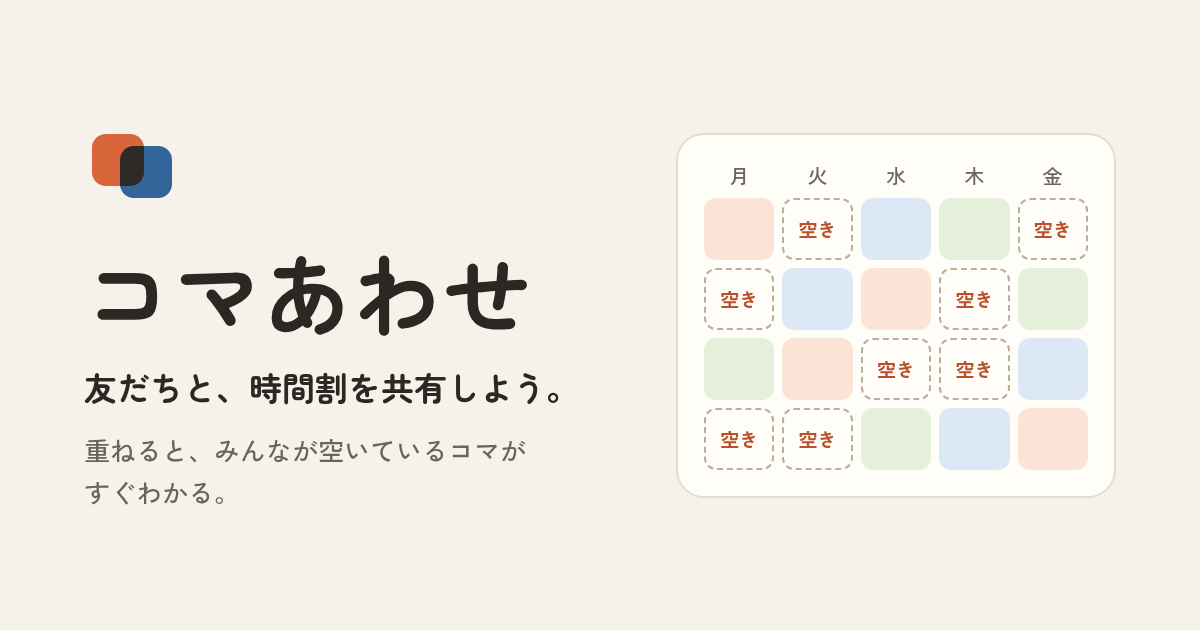
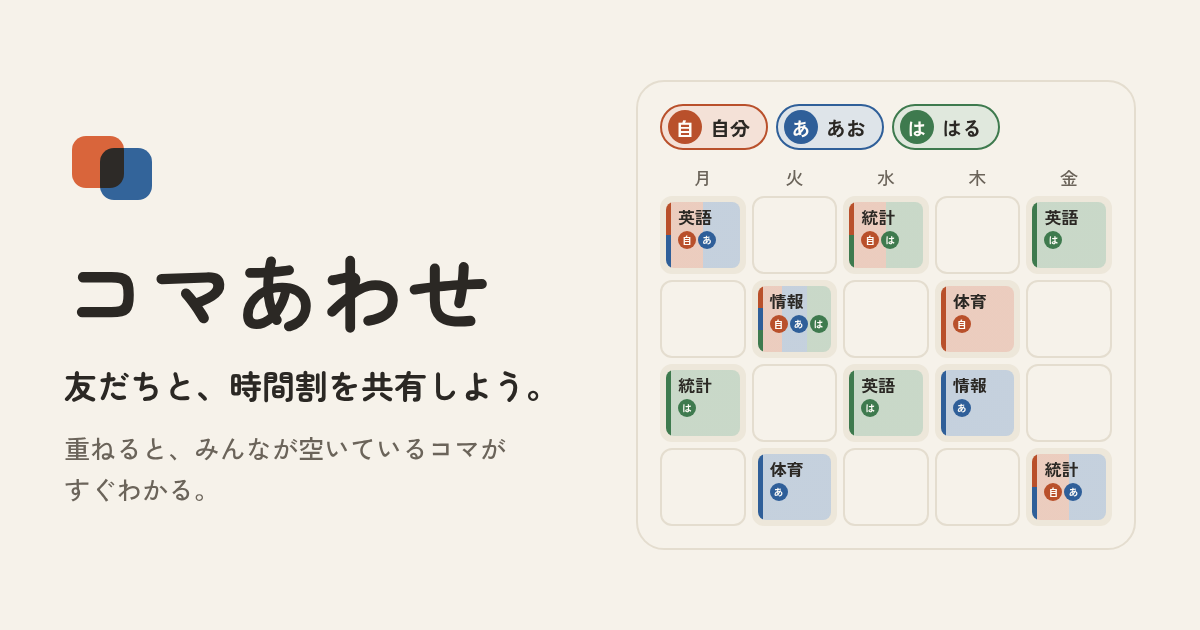
Draw the overlap picture like the real コマを重ねる screen
Claude-Session: https://claude.ai/code/session_012mbMFkv2C8vWmJ54DyEvYR

diff --git a/src/lib/components/OverlayDemo.svelte b/src/lib/components/OverlayDemo.svelte
@@ -1,0 +1,207 @@
+<script lang="ts">
+	import UserIcon from '$lib/components/UserIcon.svelte';
+	import { DAY_NAMES } from '$lib/courses';
+	import { iconOf } from '$lib/icons';
+	import { classFill } from '$lib/overlay';
+
+	// A picture of the コマを重ねる screen with made-up people and classes (nothing is read from
+	// anywhere). It uses the same icon, color and class look as the screen (src/routes/overlay).
+	const me = { id: 'demo-me', nickname: '自分', icon: { color: 'shu', text: '自' } };
+	const ao = { id: 'demo-ao', nickname: 'あお', icon: { color: 'ai', text: 'あ' } };
+	const haru = { id: 'demo-haru', nickname: 'はる', icon: { color: 'midori', text: 'は' } };
+	const friends = [ao, haru];
+	const colorOf = (u: typeof me) => iconOf(u).hex;
+
+	const days = [1, 2, 3, 4, 5];
+	const periods = [1, 2, 3, 4];
+	// weekday-period: title and who has it
+	const classes: Record<string, { title: string; who: (typeof me)[] }> = {
+		'1-1': { title: '英語', who: [me, ao] },
+		'1-3': { title: '統計', who: [haru] },
+		'2-2': { title: '情報', who: [me, ao, haru] },
+		'2-4': { title: '体育', who: [ao] },
+		'3-1': { title: '統計', who: [me, haru] },
+		'3-3': { title: '英語', who: [haru] },
+		'4-2': { title: '体育', who: [me] },
+		'4-3': { title: '情報', who: [ao] },
+		'5-1': { title: '英語', who: [haru] },
+		'5-4': { title: '統計', who: [me, ao] }
+	};
+	const free = days.flatMap((d) => {
+		const ps = periods.filter((p) => !classes[`${d}-${p}`]);
+		return ps.length ? [[d, ps] as const] : [];
+	});
+</script>
+
+<div class="demo" aria-hidden="true">
+	<div class="chips">
+		<span class="chip on" style:--p={colorOf(me)}><UserIcon user={me} size={24} short />自分</span>
+		{#each friends as f (f.id)}
+			<span class="chip on" style:--p={colorOf(f)}><UserIcon user={f} size={24} short />{f.nickname}</span>
+		{/each}
+	</div>
+
+	<div class="grid">
+		{#each days as d, i (d)}<span class="day" style:grid-column={i + 2}>{DAY_NAMES[d]}</span>{/each}
+		{#each periods as p, r (p)}
+			<span class="period" style:grid-row={r + 2}>{p}</span>
+			{#each days as d, c (d)}
+				{@const cls = classes[`${d}-${p}`]}
+				<span class="cell" class:free={!cls} style:grid-row={r + 2} style:grid-column={c + 2}>
+					{#if cls}
+						<span class="course" style:background={classFill(cls.who.map(colorOf))}>
+							<span class="title">{cls.title}</span>
+							<span class="people">{#each cls.who as x (x.id)}<UserIcon user={x} size={16} short />{/each}</span>
+						</span>
+					{/if}
+				</span>
+			{/each}
+		{/each}
+	</div>
+
+	<div class="free-card">
+		<h4>みんな空いてるコマ</h4>
+		{#each free as [d, ps] (d)}
+			<div class="free-day">
+				<span class="free-label">{DAY_NAMES[d]}</span>
+				<span class="free-list">{#each ps as p (p)}<span class="free-chip">{p}限</span>{/each}</span>
+			</div>
+		{/each}
+	</div>
+</div>
+
+<style>
+	.demo {
+		padding: 12px 0 14px;
+		border: 1px solid var(--line);
+		border-radius: 14px;
+		background: var(--bg);
+	}
+
+	.chips {
+		display: flex;
+		flex-wrap: wrap;
+		gap: 6px;
+		padding: 0 10px 10px;
+	}
+
+	.chip {
+		height: 36px;
+		box-sizing: border-box;
+		display: inline-flex;
+		align-items: center;
+		gap: 6px;
+		padding: 0 12px 0 6px;
+		border: 1px solid var(--p);
+		border-radius: 18px;
+		background: color-mix(in srgb, var(--p) 16%, var(--surface));
+		color: var(--ink);
+		font-size: 13px;
+		font-weight: 700;
+	}
+
+	.grid {
+		display: grid;
+		grid-template-columns: 24px repeat(5, minmax(0, 1fr));
+		grid-template-rows: 20px repeat(4, 62px);
+		gap: 3px;
+		padding: 0 8px;
+	}
+
+	.day {
+		grid-row: 1;
+		text-align: center;
+		font-size: 12px;
+		color: var(--ink-sub);
+	}
+
+	.period {
+		grid-column: 1;
+		padding-top: 5px;
+		text-align: center;
+		font-family: var(--font-display);
+		font-weight: 700;
+		font-size: 13px;
+	}
+
+	.cell {
+		min-width: 0;
+		box-sizing: border-box;
+		display: flex;
+		flex-direction: column;
+		padding: 3px;
+		overflow: hidden;
+		border: 1px solid var(--slot);
+		border-radius: 8px;
+		background: var(--slot);
+	}
+
+	.cell.free {
+		border-color: var(--line);
+		background: transparent;
+	}
+
+	.course {
+		display: flex;
+		flex-direction: column;
+		gap: 2px;
+		padding: 3px 3px 3px 8px;
+		border-radius: 5px;
+		background: var(--raised);
+	}
+
+	.title {
+		font-size: 10px;
+		font-weight: 700;
+		line-height: 1.3;
+	}
+
+	.people {
+		display: flex;
+		flex-wrap: wrap;
+		gap: 2px;
+	}
+
+	.free-card {
+		display: flex;
+		flex-direction: column;
+		gap: 6px;
+		margin: 12px 10px 0;
+		padding: 12px 14px;
+		border: 1px solid var(--line);
+		border-radius: 14px;
+		background: var(--surface);
+	}
+
+	.free-card h4 {
+		margin: 0 0 2px;
+		font-size: 13px;
+		font-weight: 700;
+	}
+
+	.free-day {
+		display: flex;
+		align-items: flex-start;
+		gap: 10px;
+	}
+
+	.free-label {
+		width: 18px;
+		padding-top: 3px;
+		font-size: 13px;
+		font-weight: 700;
+	}
+
+	.free-list {
+		display: flex;
+		flex-wrap: wrap;
+		gap: 6px;
+	}
+
+	.free-chip {
+		padding: 2px 9px;
+		border: 1px solid var(--line-strong);
+		border-radius: 7px;
+		font-size: 12px;
+	}
+</style>

diff --git a/src/routes/intro/+page.svelte b/src/routes/intro/+page.svelte
@@ -1,22 +1,13 @@
 <script lang="ts">
 	import { page } from '$app/state';
 	import Icon from '$lib/components/Icon.svelte';
+	import OverlayDemo from '$lib/components/OverlayDemo.svelte';
 	import PageHeader from '$lib/components/PageHeader.svelte';
 	import logo from '$lib/assets/favicon.svg';
 
 	// Readable signed in or not: shared as a link, and reachable from the login page.
 	const signedIn = $derived(page.data.signedIn);
 
-	// The picture of 重ねる: 5 days × 4 periods, who has a class (0 = nobody, 1 = 自分,
-	// 2 = 友だちA, 3 = 友だちB) and the cells all three have free.
-	const GRID = [
-		[1, 0, 2, 3, 0],
-		[0, 2, 1, 0, 3],
-		[3, 1, 0, 0, 2],
-		[0, 0, 3, 2, 1]
-	];
-	const DAYS = ['月', '火', '水', '木', '金'];
-	
 	const features = [
 		{
 			icon: 'edit',
@@ -72,20 +63,8 @@
 	</section>
 
 	<section class="demo" aria-label="時間割を重ねたイメージ">
-		<div class="grid" aria-hidden="true">
-			{#each DAYS as d (d)}<span class="day">{d}</span>{/each}
-			{#each GRID as row, r (r)}
-				{#each row as who, c (c)}
-					<span class="cell who{who}" class:free={who === 0}>{who === 0 ? '空き' : ''}</span>
-				{/each}
-			{/each}
-		</div>
-		<ul class="legend" aria-hidden="true">
-			<li><i class="who1"></i>自分</li>
-			<li><i class="who2"></i>友だちA</li>
-			<li><i class="who3"></i>友だちB</li>
-		</ul>
-		<p class="caption">3人の時間割を重ねたところ。だれも授業のないコマが「空き」になります。</p>
+		<OverlayDemo />
+		<p class="caption">3人の時間割を重ねたところ。だれも授業のないコマが、「みんな空いてるコマ」に出ます。</p>
 	</section>
 
 	<section class="block">
@@ -175,74 +154,6 @@
 
 	.demo {
 		margin: 20px 20px 4px;
-		padding: 14px;
-		border: 1px solid var(--line);
-		border-radius: 14px;
-		background: var(--surface);
-	}
-
-	.grid {
-		display: grid;
-		grid-template-columns: repeat(5, 1fr);
-		gap: 4px;
-	}
-
-	.day {
-		text-align: center;
-		font-size: 11px;
-		color: var(--ink-sub);
-	}
-
-	.cell {
-		height: 34px;
-		display: flex;
-		align-items: center;
-		justify-content: center;
-		border-radius: 7px;
-		background: var(--slot);
-		font-size: 11px;
-		font-weight: 700;
-	}
-
-	.who1 {
-		background: var(--course-orange);
-	}
-
-	.who2 {
-		background: var(--course-blue);
-	}
-
-	.who3 {
-		background: var(--course-green);
-	}
-
-	.cell.free {
-		background: transparent;
-		border: 1px dashed var(--line-bold);
-		color: var(--accent-text);
-	}
-
-	.legend {
-		display: flex;
-		justify-content: center;
-		gap: 14px;
-		margin: 12px 0 0;
-		padding: 0;
-		list-style: none;
-		font-size: 12px;
-		color: var(--ink-sub);
-	}
-
-	.legend li {
-		display: flex;
-		align-items: center;
-		gap: 5px;
-	}
-
-	.legend i {
-		width: 12px;
-		height: 12px;
-		border-radius: 4px;
 	}
 
 	.caption {
